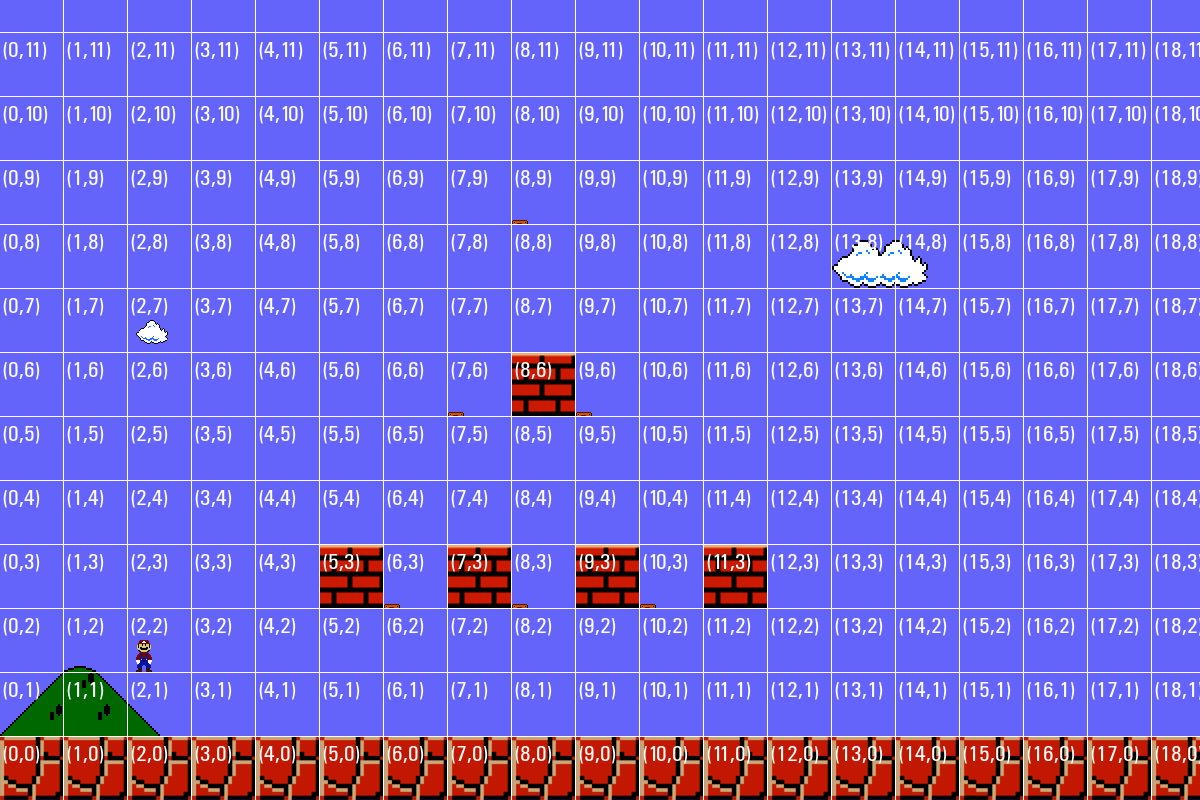
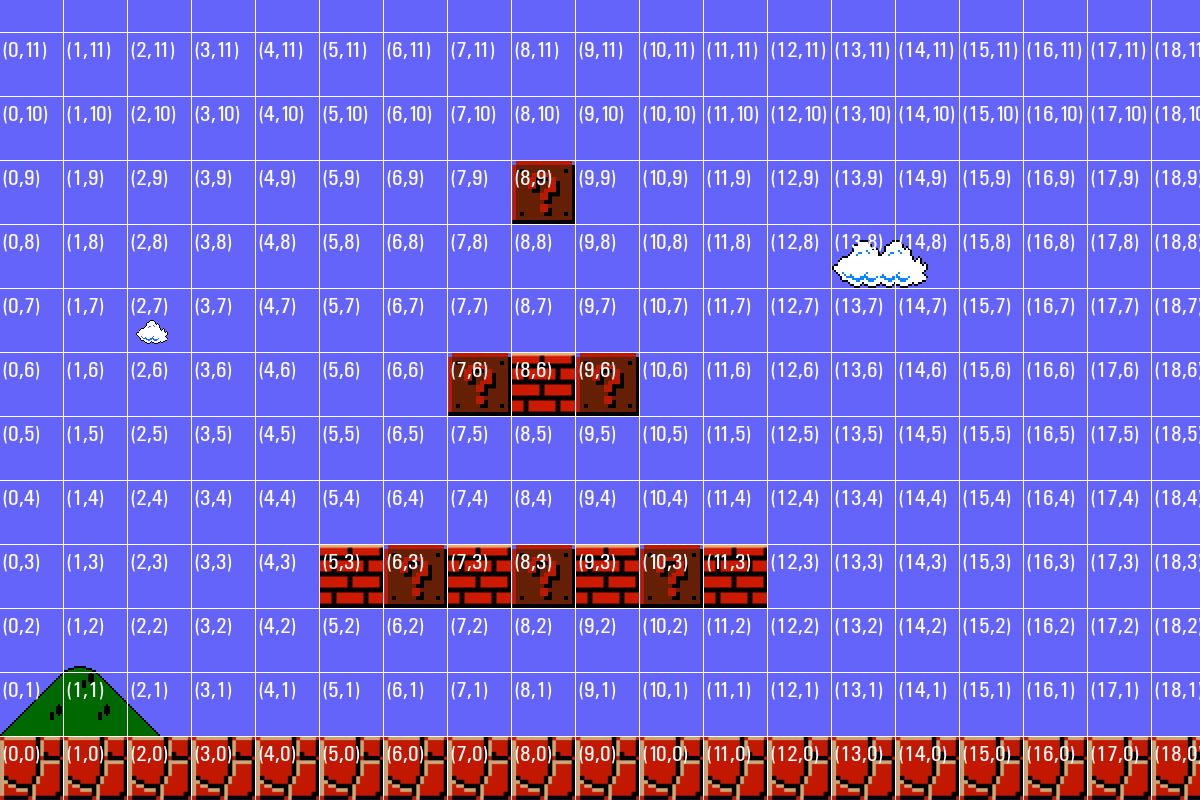
addded stuff

diff --git a/src/Scene_Play.cpp b/src/Scene_Play.cpp
@@ -159,14 +159,14 @@ void Scene_Play::spawnPlayer() {
 
   // TODO: be sure to add the remaining components to the player
 
-  auto player = m_entityManager.addEntity("Player");
-  player->add<CAnimation>(Assets::Instance().getAnimation("Stand"), true);
-  player->add<CBoundingBox>(Vec2f(m_playerConfig.CX, m_playerConfig.CY));
-  player->add<CTransform>(
-      GridToMidPixel(m_playerConfig.X, m_playerConfig.X, player));
-  player->add<CState>();
-  player->add<CInput>();
-  player->add<CGravity>(m_playerConfig.GRAVITY);
+  m_player = m_entityManager.addEntity("Player");
+  m_player->add<CAnimation>(Assets::Instance().getAnimation("Stand"), true);
+  m_player->add<CBoundingBox>(Vec2f(m_playerConfig.CX, m_playerConfig.CY));
+  m_player->add<CTransform>(
+      GridToMidPixel(m_playerConfig.X, m_playerConfig.Y, m_player));
+  m_player->add<CState>();
+  m_player->add<CInput>();
+  m_player->add<CGravity>(m_playerConfig.GRAVITY);
 }
 
 void Scene_Play::spawnBullet(std::shared_ptr<Entity> entity) {
@@ -181,6 +181,8 @@ void Scene_Play::update() {
   // TODO: implement pause functionality
   sRender();
   sAnimation();
+  sMovement();
+  sCollision();
 
   // run all systems
 }
@@ -188,9 +190,20 @@ void Scene_Play::update() {
 void Scene_Play::sMovement() {
   // TODO: Implement player movement / jumping based on its CInput component
   // TODO: Implement gravity's effect on the player
-  // TODO: Implement the maximum player speed in both X and Y directions
-  // NOTE: Setting an entity's scale.x to -1/1 will make it face to the
-  // left/right
+
+  auto &transformComponent = player()->get<CTransform>();
+  transformComponent.prevPos = transformComponent.pos;
+  float deltaTime = m_game->getDeltaTime().asSeconds();
+  transformComponent.velocity.y += m_playerConfig.GRAVITY * deltaTime;
+  transformComponent.velocity.y =
+      std::min(transformComponent.velocity.y, m_playerConfig.MAXSPEED);
+
+  transformComponent.pos.y += transformComponent.velocity.y * deltaTime;
+
+  // std::cout << player()->get<CTransform>().pos.y << '\n';
+  //  TODO: Implement the maximum player speed in both X and Y directions
+  //  NOTE: Setting an entity's scale.x to -1/1 will make it face to the
+  //  left/right
 }
 
 void Scene_Play::sLifespan() {
@@ -214,6 +227,40 @@ void Scene_Play::sCollision() {
   //  update the CState component of the player to store whether
   //  it is currently on the gorund or in the air this will be sued by the
   //  animation system
+  auto &pos = m_player->get<CTransform>().pos;
+
+  for (auto entity : m_entityManager.getEntities()) {
+
+    if (entity->tag() == "Player" || entity->tag() == "Dec") {
+      continue;
+    }
+
+    if (entity->tag() == "Tile") {
+
+      Vec2f overlap = Physics::getOverlap(m_player, entity);
+
+      if (overlap.x > 0 && overlap.y > 0) {
+        Vec2f previousOverlap = Physics::getPreviousOverlap(m_player, entity);
+        std::cout << "prevX: " << previousOverlap.x
+                  << " prevY: " << previousOverlap.y << std::endl;
+
+        std::cout << "collision\n";
+        if (previousOverlap.y > 0) {
+
+        } else if (previousOverlap.x > 0) {
+          std::cout << "hello\n";
+          if (auto entityPos = entity->get<CTransform>().pos;
+              pos.y < entityPos.y) {
+            pos.y -= overlap.y;
+            std::cout << "resolution\n";
+          } else if (pos.y > entityPos.y) {
+          }
+        } else if (previousOverlap.x < 0 && previousOverlap.y < 0) {
+          pos.y -= overlap.y;
+        }
+      }
+    }
+  }
   // TODO: Check to see if the player has fallen down a hole (y > height())
   // TODO: Don't let the player walk off the left side of the map
 }
@@ -286,6 +333,8 @@ void Scene_Play::sRender() {
       }
     }
   }
+
+  // !most confusing code for em
   if (!m_drawGrid) {
     auto [width, height] = m_game->window().getView().getSize();
 

diff --git a/include/Physics.hpp b/include/Physics.hpp
@@ -1,6 +1,9 @@
 #pragma once
 
+#include "Components.hpp"
 #include "Entity.hpp"
+#include "Vec2.hpp"
+#include <cstdlib>
 
 namespace Physics {
 
@@ -8,6 +11,17 @@ Vec2f getOverlap(std::shared_ptr<Entity> a, std::shared_ptr<Entity> b) {
 
   // TODO: return the overlap rectangle size of the bounding boxe of entity a
   // and b
+  const auto &aBoundingbox = a->get<CBoundingBox>();
+  const auto &bBoundingbox = b->get<CBoundingBox>();
+
+  Vec2f overlap(0, 0);
+  overlap.x = aBoundingbox.halfSize.x + bBoundingbox.halfSize.x -
+              std::abs(a->get<CTransform>().pos.x - b->get<CTransform>().pos.x);
+
+  overlap.y = aBoundingbox.halfSize.y + bBoundingbox.halfSize.y -
+              std::abs(a->get<CTransform>().pos.y - b->get<CTransform>().pos.y);
+
+  return overlap;
 }
 
 Vec2f getPreviousOverlap(std::shared_ptr<Entity> a, std::shared_ptr<Entity> b) {
@@ -15,6 +29,19 @@ Vec2f getPreviousOverlap(std::shared_ptr<Entity> a, std::shared_ptr<Entity> b) {
   // TODO: return the previous overlap rectangle size of the bounding boxes of
   // entity
   //  previous overlap uses the entity's previous position
+  const auto &aBoundingbox = a->get<CBoundingBox>();
+  const auto &bBoundingbox = b->get<CBoundingBox>();
+
+  Vec2f overlap(0, 0);
+  overlap.x =
+      aBoundingbox.halfSize.x + bBoundingbox.halfSize.x -
+      std::abs(a->get<CTransform>().prevPos.x - b->get<CTransform>().prevPos.x);
+
+  overlap.y =
+      aBoundingbox.halfSize.y + bBoundingbox.halfSize.y -
+      std::abs(a->get<CTransform>().prevPos.y - b->get<CTransform>().prevPos.y);
+
+  return overlap;
 }
 
 } // namespace Physics

diff --git a/src/GameEngine.cpp b/src/GameEngine.cpp
@@ -85,7 +85,7 @@ void GameEngine::sUserInput() {
 
     // do screenshot x
     if (const auto *keypressed = event->getIf<sf::Event::KeyPressed>()) {
-      if (keypressed->scancode == sf::Keyboard::Scancode::Escape) {
+      if (keypressed->scancode == sf::Keyboard::Scancode::X) {
         sf::Texture texture(m_window.getSize());
         texture.update(m_window);
         if (texture.copyToImage().saveToFile("assets/images/screenshot.png")) {
@@ -131,7 +131,7 @@ void GameEngine::sUserInput() {
         continue;
       }
       currentScene()->sDoAction(
-          Action(currentScene()->getActionMap().at(scancode), "PRESS"));
+          Action(currentScene()->getActionMap().at(scancode), type));
     }
   }
 }
@@ -151,8 +151,12 @@ void GameEngine::changeScene(const std::string &sceneName,
   }
 }
 void GameEngine::update() {
+  m_deltaTime = m_deltaClock.restart();
+
   sUserInput();
   currentScene()->update();
 }
 
 void GameEngine::quit() { m_running = false; }
+
+sf::Time GameEngine::getDeltaTime() { return m_deltaTime; }

diff --git a/include/GameEngine.h b/include/GameEngine.h
@@ -18,7 +18,7 @@ protected:
   SceneMap m_sceneMap;
   size_t m_simulationSpeed = 1;
   sf::Clock m_deltaClock;
-  sf::Time deltaTime;
+  sf::Time m_deltaTime;
   bool m_running{true};
 
   void init(const std::string &path);
@@ -29,6 +29,7 @@ protected:
   std::shared_ptr<Scene> currentScene();
 
 public:
+  sf::Time getDeltaTime();
   GameEngine(const std::string &path);
 
   void changeScene(const std::string &sceneName, std::shared_ptr<Scene> scene,
@@ -38,6 +39,6 @@ public:
   void run();
 
   sf::RenderWindow &window();
-  const Assets &assets() const;
+  // const Assets &assets() const;
   bool isRunning();
 };
